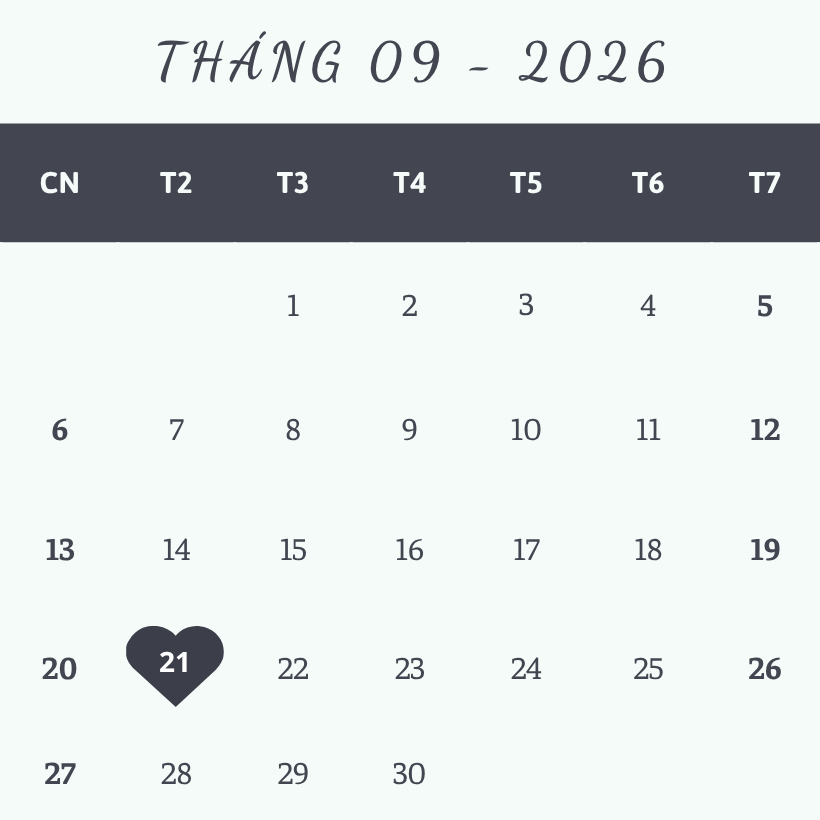
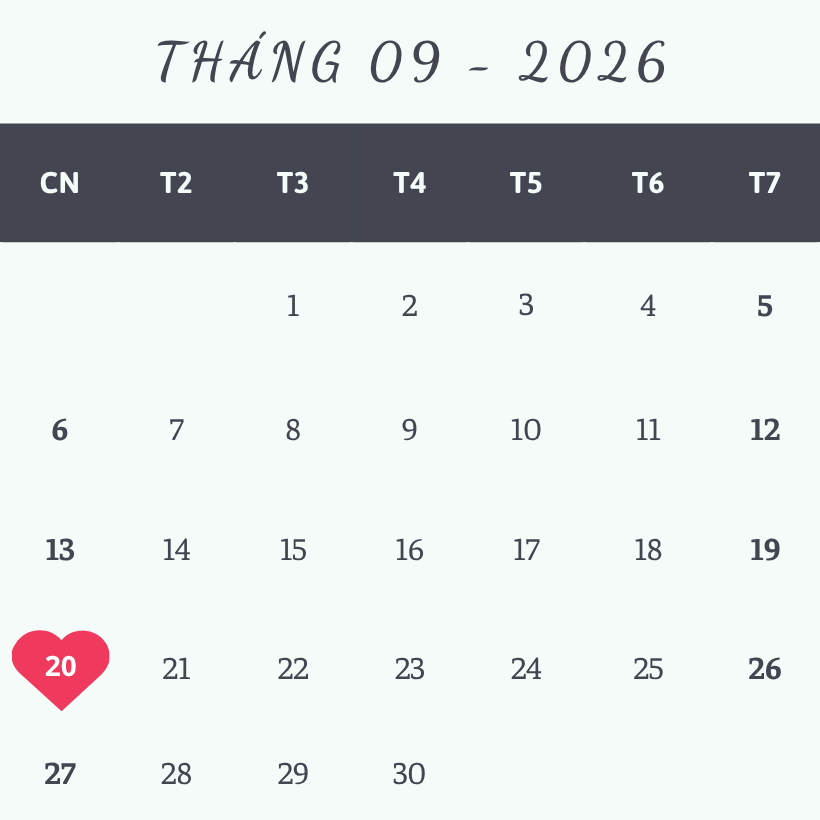
update

Changed region(s): [[0.0, 0.7622, 0.2744, 0.8841]]

diff --git a/index.html b/index.html
@@ -3899,8 +3899,8 @@
 
         #w-p8etkpq1 .image-background {
             width: 318.2px;
-            height: 688px;
-            top: -169px;
+            height: 647px;
+        top: -200px;
             left: -59.30952380952384px;
             background: center center/ cover no-repeat scroll content-box border-box url("./images/qr1.jpg");
             --type: 0;
@@ -7461,8 +7461,8 @@
 
         #w-p8etkpq1 .image-background {
             width: 318.2px;
-            height: 688px;
-            top: -169px;
+        height: 647px;
+        top: -200px;
             left: -59.30952380952384px;
             background: center center/ cover no-repeat scroll content-box border-box url("./images/qr1.jpg");
             --type: 0;
@@ -8529,7 +8529,7 @@
                             </div>
                             <div id="w-19tqxf4g" class="com-text-block p-absolute is-animation">
                                 <div class="text-block">
-                                    <h3 class="text-block-css full-width">21.09<br>2026<br></h3>
+                                    <h3 class="text-block-css full-width">20.09<br>2026<br></h3>
                                 </div>
                             </div>
                             <div id="w-wkuu9jg6" class="com-text-block p-absolute is-animation">
@@ -8709,7 +8709,7 @@
                     </div>
                     <div id="w-trta43bz" class="com-text-block p-absolute is-animation">
                         <div class="text-block">
-                            <p class="text-block-css full-width">(Tức Ngày 11 Tháng 08 Năm Bính Ngọ)<br></p>
+                            <p class="text-block-css full-width">(Tức Ngày 10 Tháng 08 Năm Bính Ngọ)<br></p>
                         </div>
                     </div>
                     <div id="w-pdl931a6" class="com-text-block p-absolute is-animation">
@@ -8750,12 +8750,12 @@
                     </div>
                     <div id="w-rvjhix10" class="com-text-block p-absolute is-animation">
                         <div class="text-block">
-                            <p class="text-block-css full-width">Vào Lúc 16h00 | Thứ 2</p>
+                            <p class="text-block-css full-width">Vào Lúc 16h00 | Chủ Nhật</p>
                         </div>
                     </div>
                     <div id="w-0m3cmvaa" class="com-text-block p-absolute is-animation">
                         <div class="text-block">
-                            <p class="text-block-css full-width">21<br></p>
+                            <p class="text-block-css full-width">20<br></p>
                         </div>
                     </div>
                     <div id="w-2z4vbngp" class="com-image-block p-absolute is-animation">
